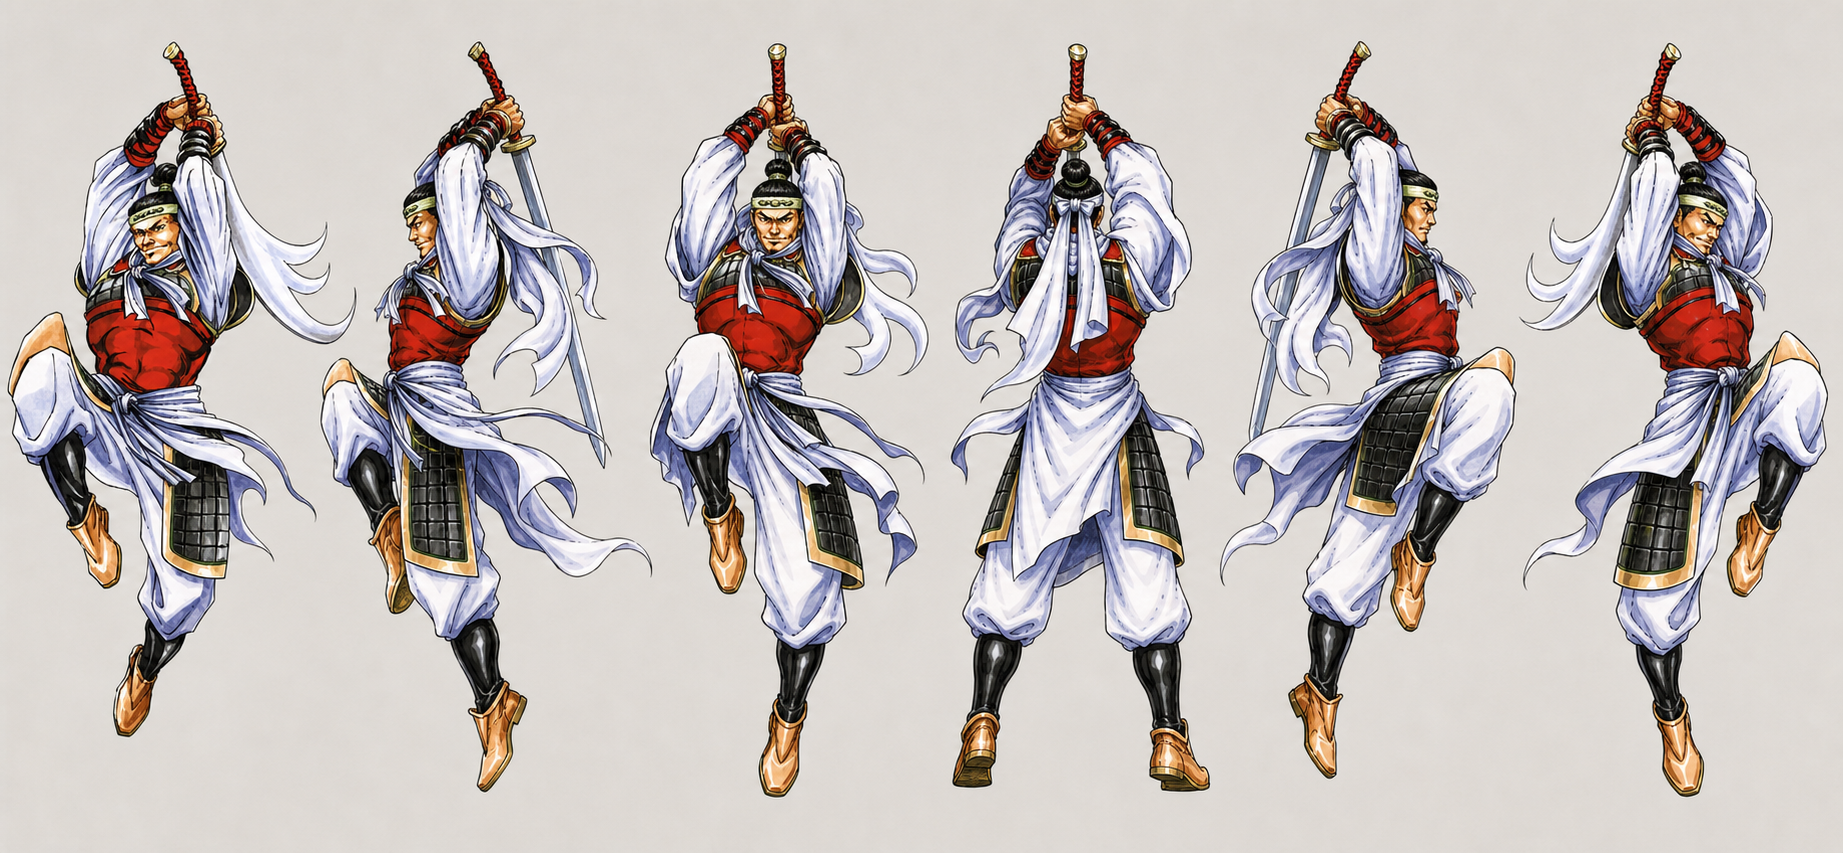
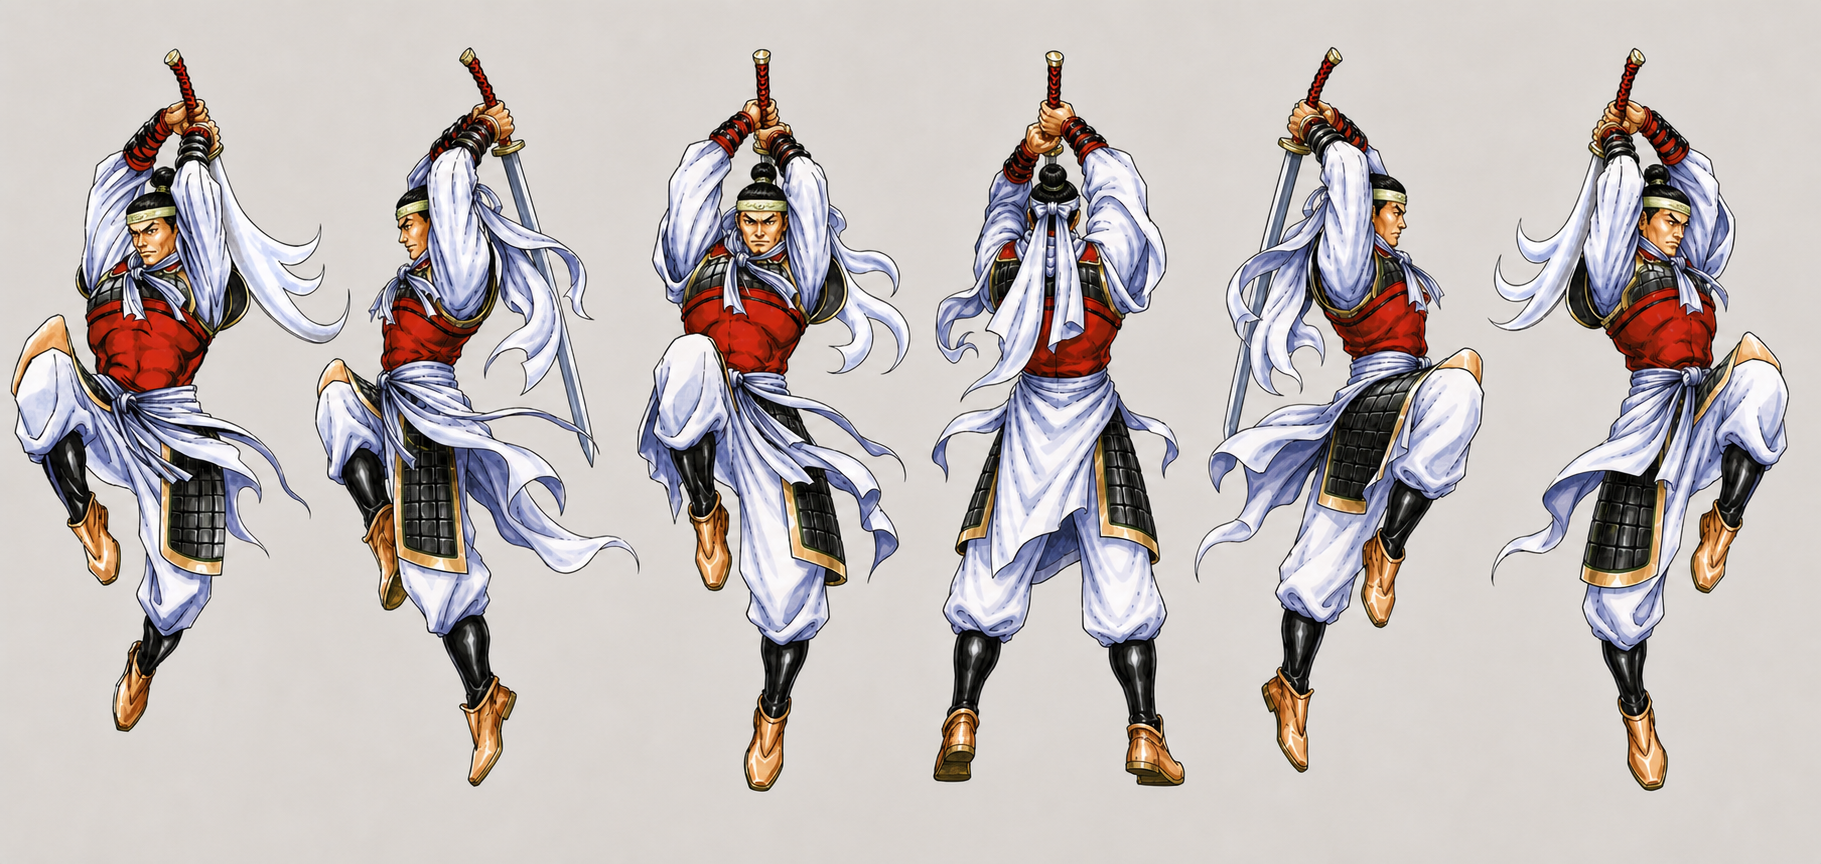
fix(character-063): 修正角色无胡须设定与视图
根据原图移除中立、头部及原画姿态视图中的胡须。\n\n同步规格、生成提示和复核记录，并保留返修前资产。

Changed region(s): [[0.0, 0.0305, 1.0, 0.9449]]

diff --git a/character-model-sheets/characters/063/review-notes.md b/character-model-sheets/characters/063/review-notes.md
@@ -24,7 +24,14 @@
 ## 2026-08-21 头部四视图补充
 
 - [x] 已生成 `head-sheet.png`，严格按正面、纯后脑、角色自身左侧面、角色自身右侧面排列。
-- [x] 四张保持同一身份、颅骨体积、发型／头戴、胡须、颈部尺度、裁切、光照和固定复古手绘画风。
+- [x] 四张保持同一身份、颅骨体积、发型／头戴、无胡须状态、颈部尺度、裁切、光照和固定复古手绘画风。
 - [x] 纯后脑没有出现面部；左右侧面来自角色不同解剖侧，未用表情变化代替视角变化。
 - [x] 原图未展示的后脑与连接结构继续按规格中的 `inferred`／`unknown` 克制处理，不宣称为原作事实。
 - 状态保持 `generated`，等待用户批准。
+
+## 2026-08-22 无胡须返修
+
+- [x] 用户确认原图人物没有胡须；`character-spec.json` 已改为 confirmed 的“无胡须”。
+- [x] `character-turnaround.png`、`head-sheet.png` 与 `character-turnaround-original-pose.png` 中所有可见面部均已去除八字胡、唇下须、山羊胡和下颌胡须。
+- [x] 返修只改变面部毛发与其下方必要肤色，保持人物身份、脸型、发型、服装、武器、视角、动作、版式与既有复古手绘画风。
+- [x] 返修前文件分别保留为 `character-turnaround-v3.png`、`head-sheet-v1.png` 与 `character-turnaround-original-pose-v1.png`。
